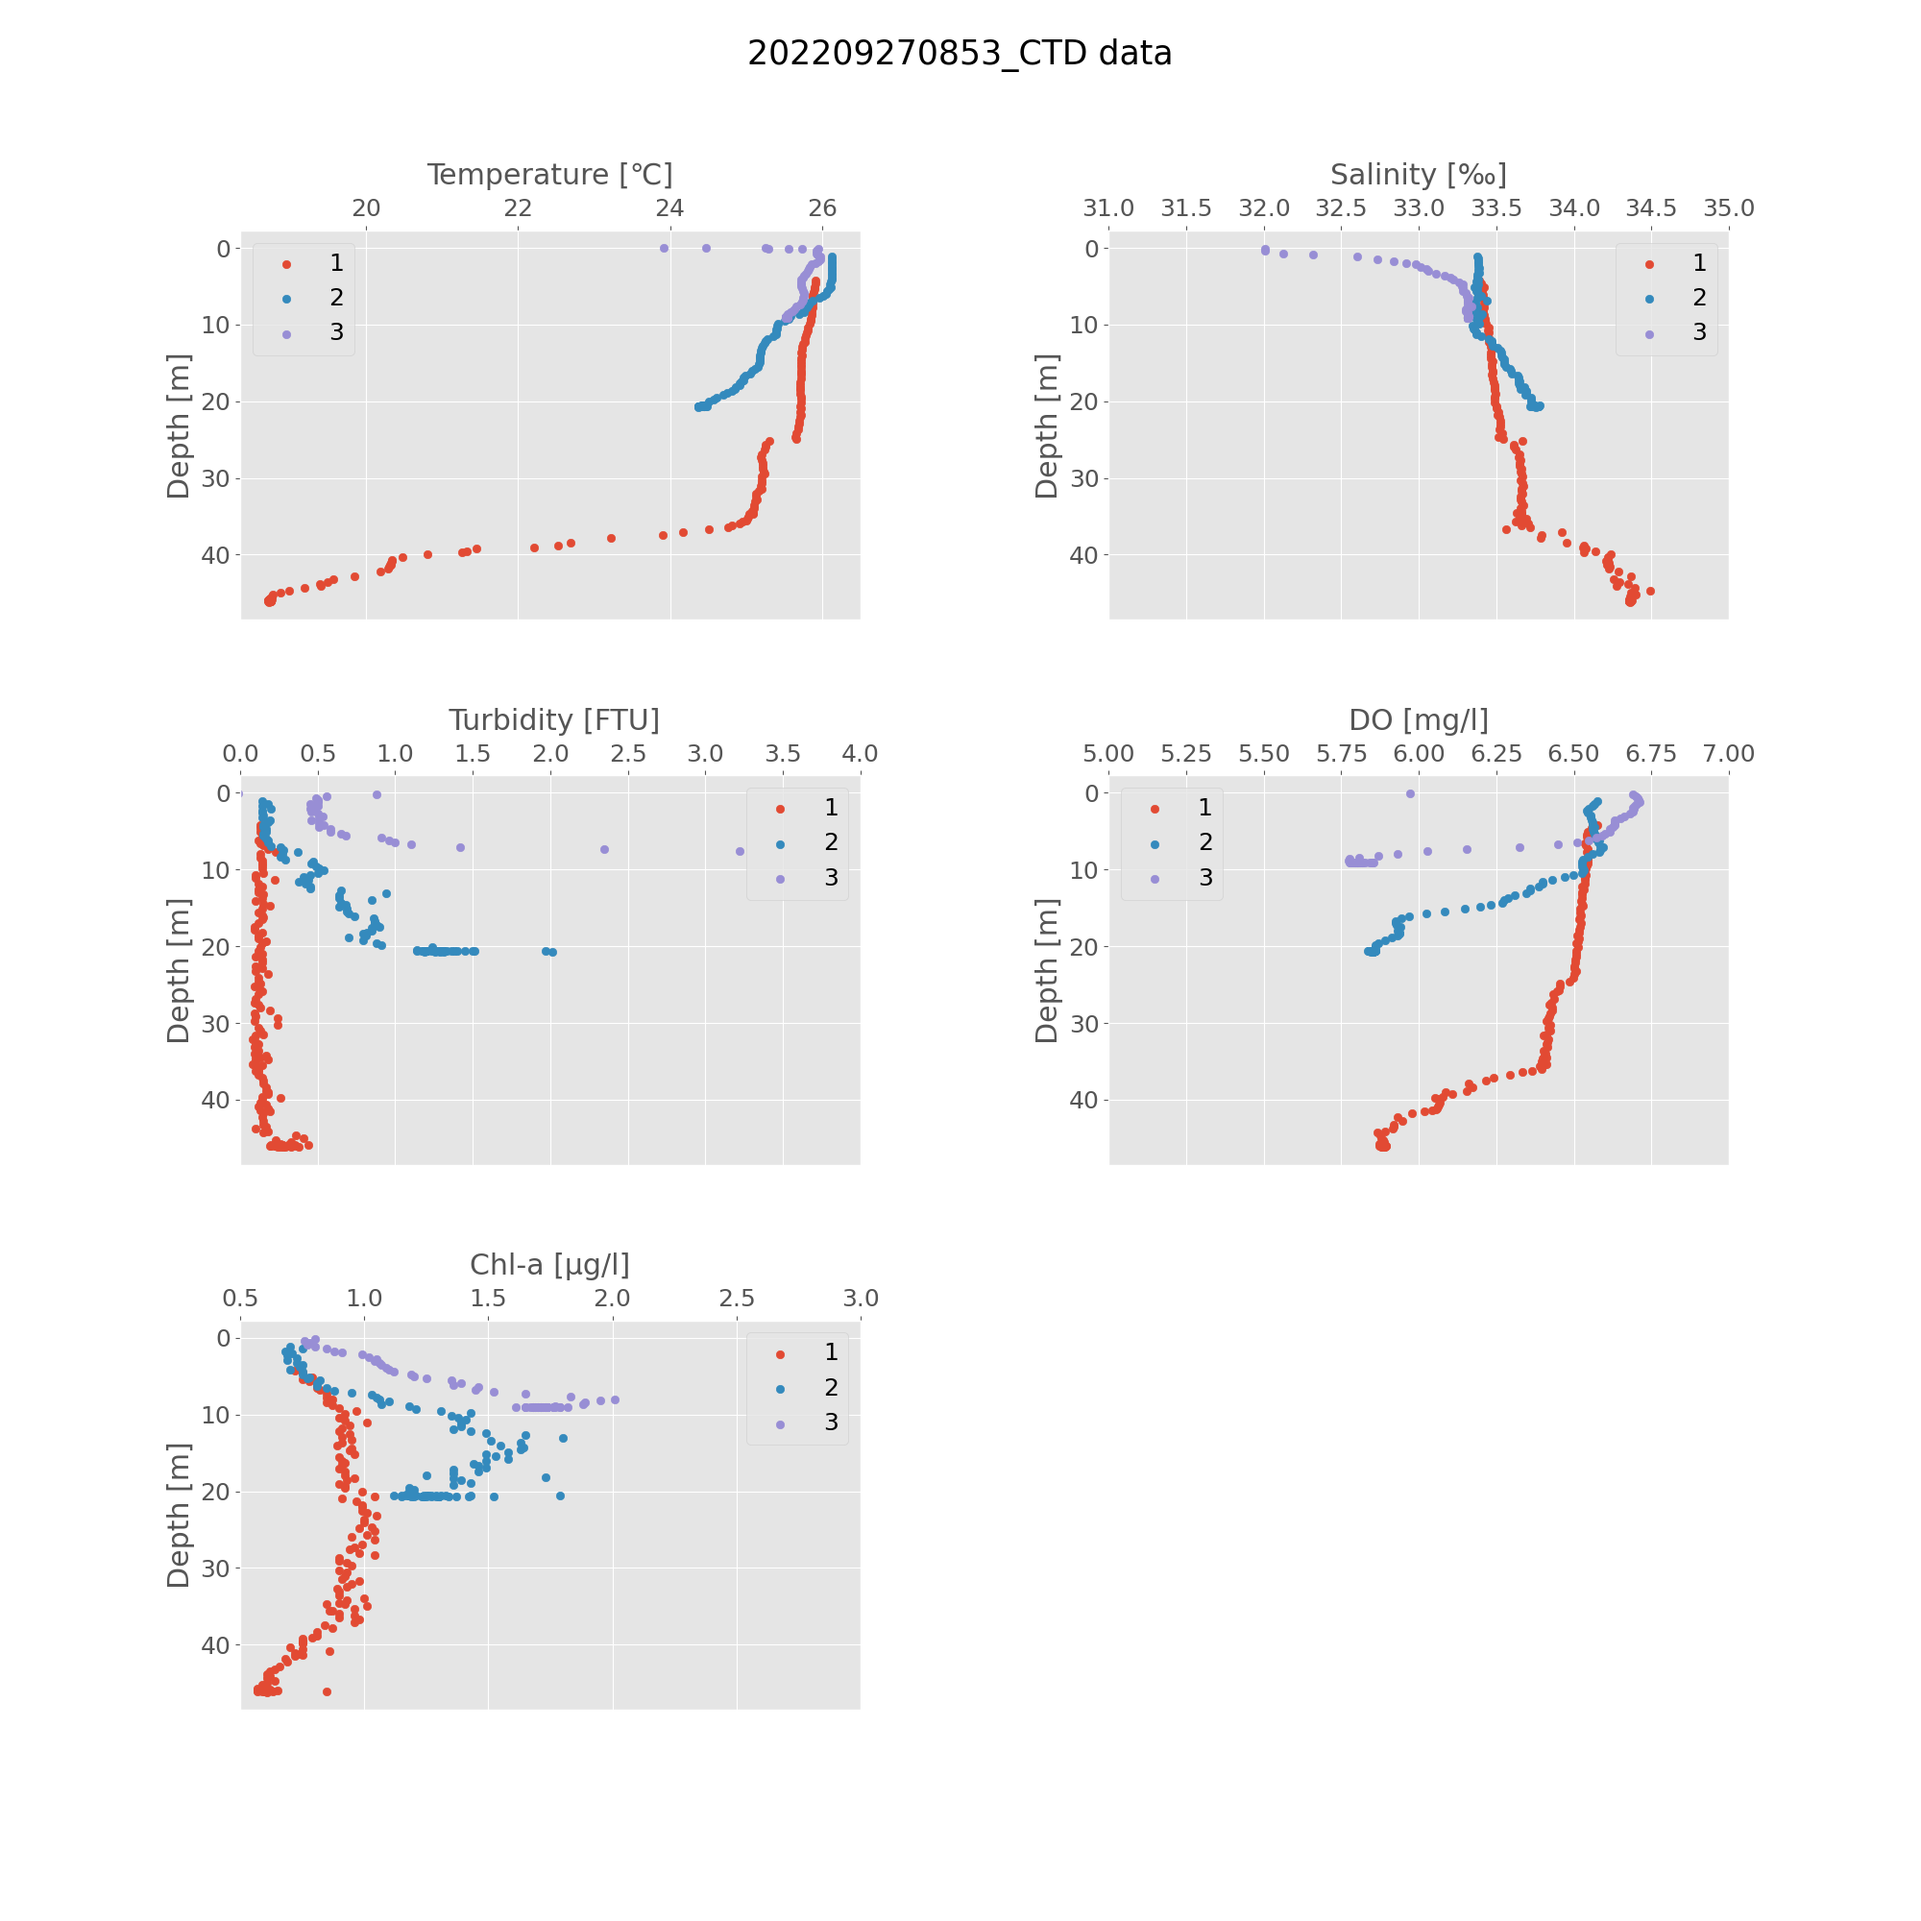
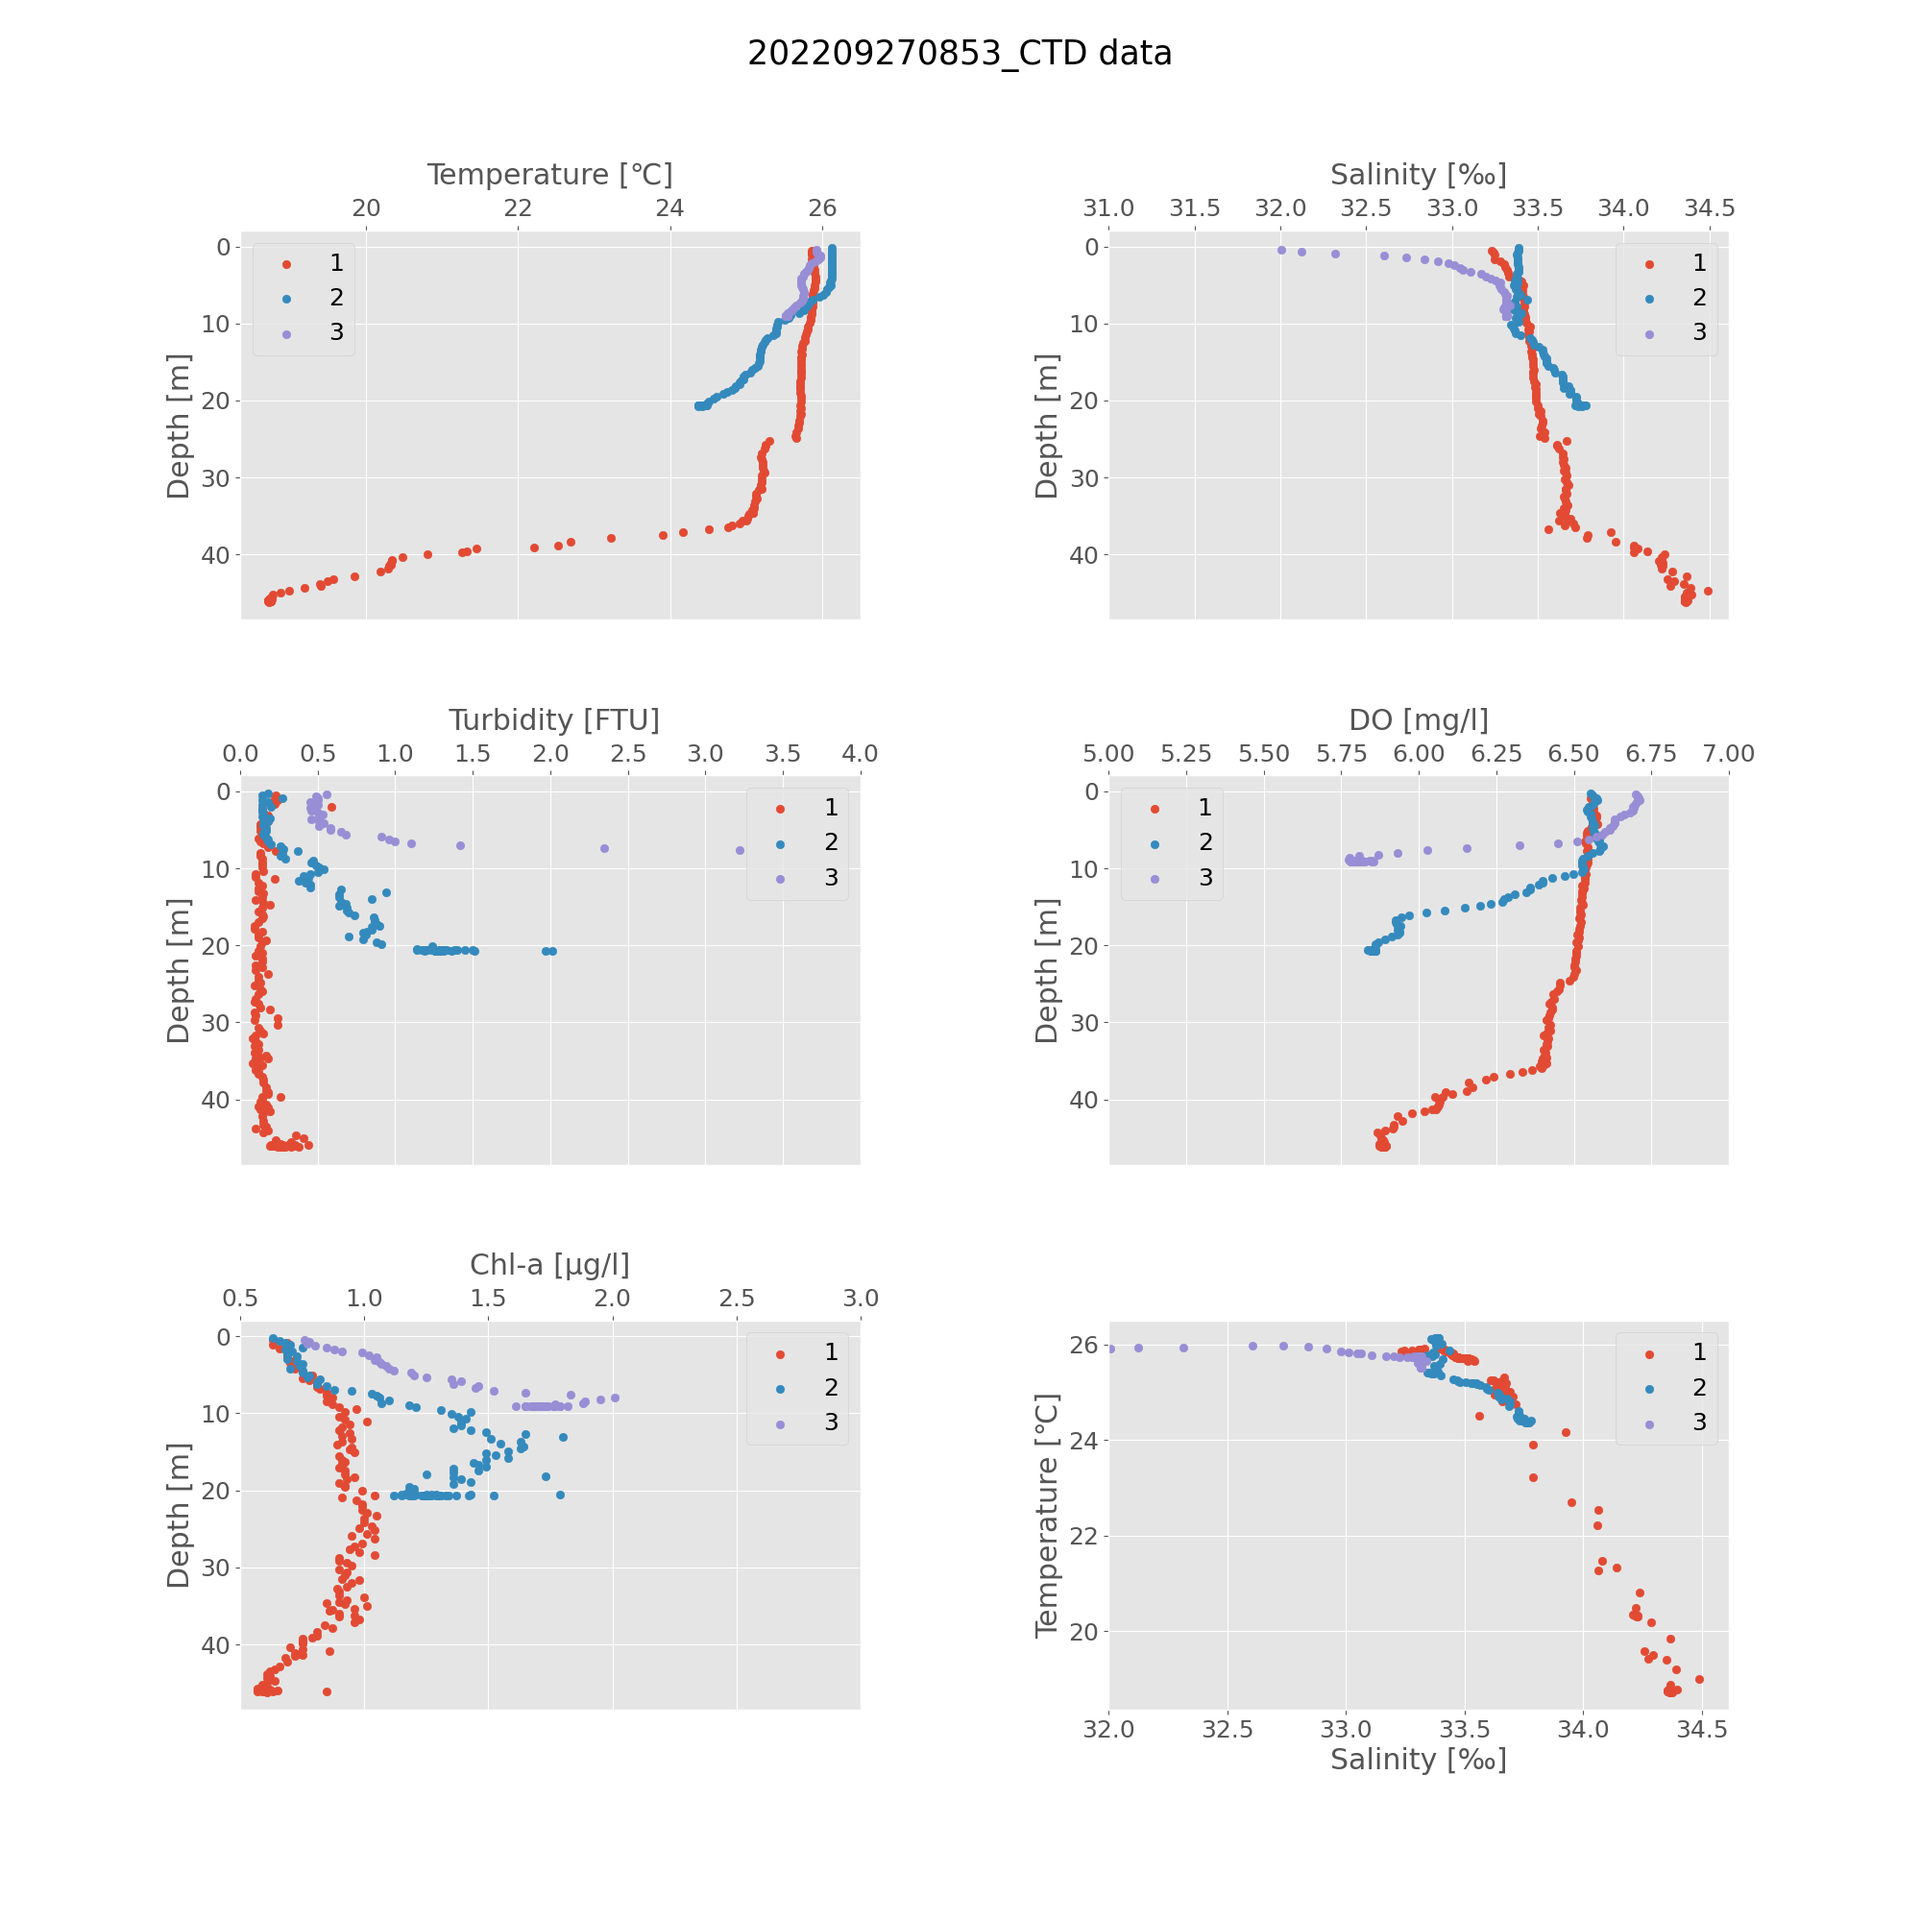
220927_実習

diff --git a/CSVtoFig_manyfiles.py b/CSVtoFig_manyfiles.py
@@ -62,8 +62,11 @@ for i in range(len(peaks)):
     params = model.guess(y,x)
     result = model.fit(y, params, x=x)
     max_depth = round(result.params.valuesdict()['center'])
-    min_depth = round(result.params.valuesdict()['center']+result.params.valuesdict()['sigma']*2) #95%
-    peak_data_li.append(dfall[max_depth:min_depth])
+    min_depth = round(result.params.valuesdict()['center']+result.params.valuesdict()['sigma']*3) #95%
+    peak_data_i = dfall[max_depth:min_depth]
+    peak_data_i = peak_data_i[peak_data_i['深度 [m]']>=0.2]
+    peak_data_li.append(peak_data_i)
+
 
 figs,axes = plt.subplots(nrows=3, ncols=2,figsize=(20,20))
 plt.rcParams.update({'font.size': 18})
@@ -138,7 +141,17 @@ axes[2,0].set_ylabel('Depth [m]')
 axes[2,0].patch.set_alpha(1)  
 axes[2,0].legend(["{}".format(a), "{}".format(b), "{}".format(c)])
 
-axes[2,1].axis('off')
+axes[2,1].scatter(peak_data_li[0]["塩分 [ ]"], peak_data_li[0]["水温 [℃]"])
+axes[2,1].scatter(peak_data_li[1]["塩分 [ ]"], peak_data_li[1]["水温 [℃]"])
+axes[2,1].scatter(peak_data_li[2]["塩分 [ ]"], peak_data_li[2]["水温 [℃]"])
+#axes[2,1].invert_yaxis()
+#axes[2,1].xaxis.tick_top()
+#axes[2,1].xaxis.set_label_position('top')
+axes[2,1].set_xlabel('Salinity [‰]')
+axes[2,1].set_xlim(32,)
+axes[2,1].set_ylabel('Temperature [℃]')
+axes[2,1].patch.set_alpha(1)
+axes[2,1].legend(["{}".format(a), "{}".format(b), "{}".format(c)])
 
 #figs.legend('','')
 fname = "./{}_CTD.png".format(Exp_Date)
